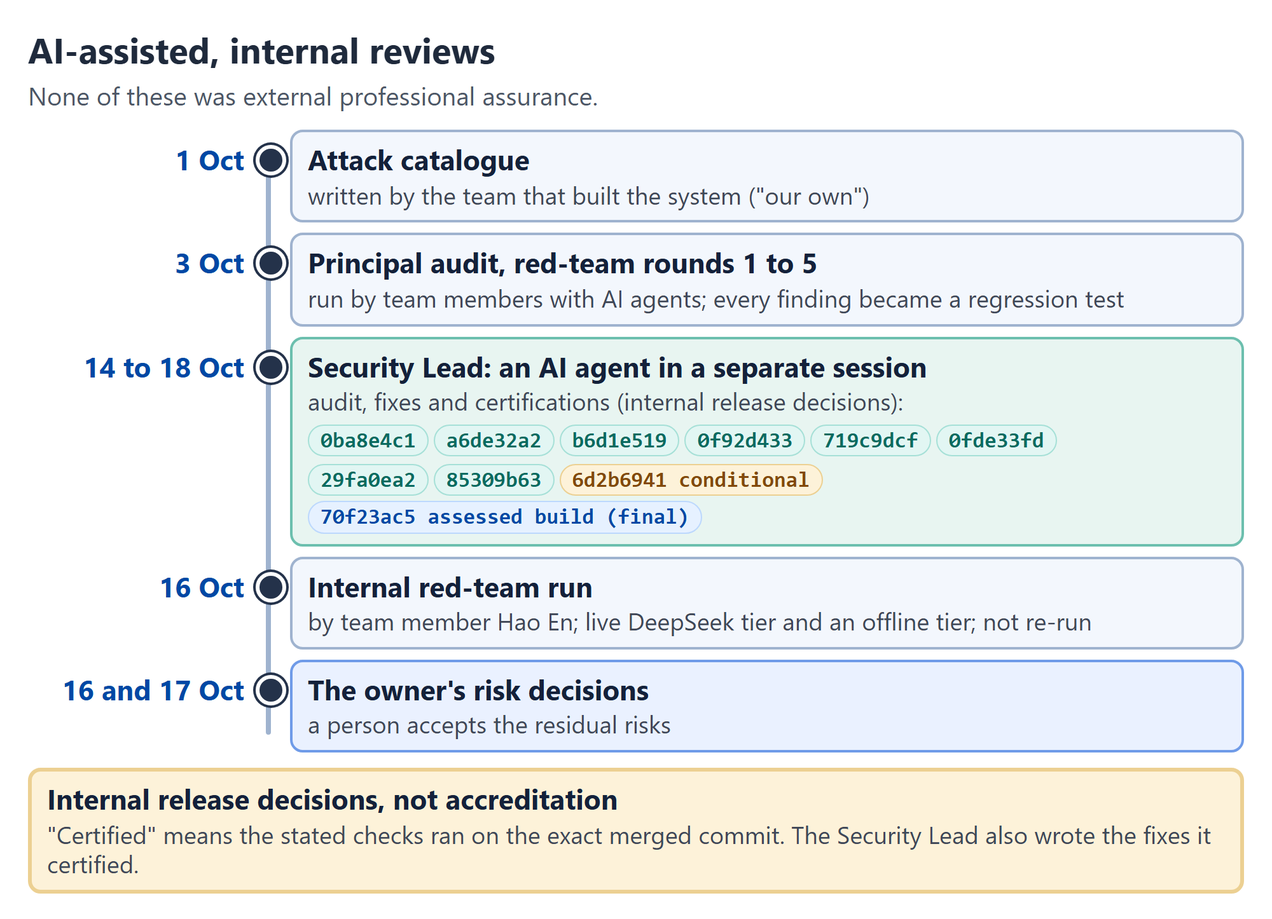
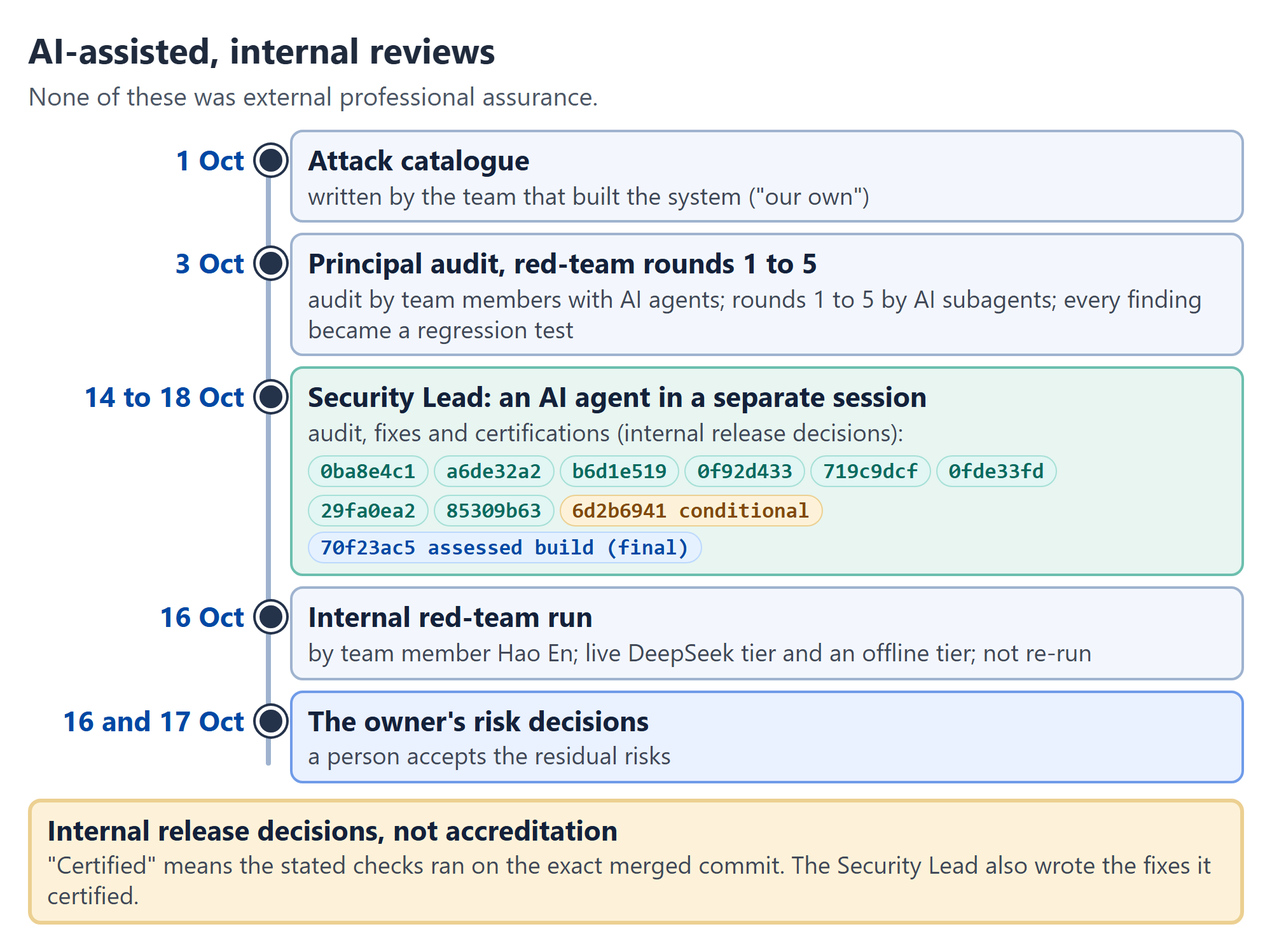
docs(security): correct the review labels and live-mode claims at b80e7340
A documentation review of the integration lead's edits (08c8dac0 to
b80e7340) found labels that disagree with the new review arrangement,
and live-mode statements the evidence contradicts. Findings, ratings
and verdicts are unchanged.

- The 16 Oct run is "internal" everywhere: the OWASP rows, LLM10, E9.
  Its report is not in the repository, and that is said again.
- A row for the 17 Oct review of the self-assessment; the reviewer is
  not recorded.
- Live mode:
  - "every evidence run uses cache mode" and "the router has not been
    run live" are replaced;
  - the live runs (1, 16 and 18 Oct) are listed as uncertified
    evidence, without commit or redaction stamps.
- Dates: Security Lead 14 to 18 Oct; risk decisions 16 to 18 Oct.
- 70f23ac5's disclosed items now include REG-9, CT-2b, SEC-27 and
  SEC-28.
- Wording: the braces advisory is accepted by the owner; the licence
  check is reported by the team; Appendix E's "unchanged" statement
  is softened to say what it did change.
- Figure 5: the audit was by team members with AI agents, rounds 1 to
  5 by AI subagents.
- A self-contradiction in 1.5 is removed.

Refs: review of b80e7340 docs

Changed region(s): [[0.031, 0.0311, 0.992, 0.9647], [0.217, 0.0311, 0.279, 0.0622]]

diff --git a/docs/security/figures/src/fig6.html b/docs/security/figures/src/fig6.html
@@ -15,7 +15,7 @@
 <div class="sub">None of these was external professional assurance.</div>
 <div class="tl">
  <div class="ev"><div class="d">1 Oct</div><div class="dot"></div><div class="box"><b>Attack catalogue</b><small>written by the team that built the system ("our own")</small></div></div>
- <div class="ev"><div class="d">3 Oct</div><div class="dot"></div><div class="box"><b>Principal audit, red-team rounds 1 to 5</b><small>run by team members with AI agents; every finding became a regression test</small></div></div>
+ <div class="ev"><div class="d">3 Oct</div><div class="dot"></div><div class="box"><b>Principal audit, red-team rounds 1 to 5</b><small>audit by team members with AI agents; rounds 1 to 5 by AI subagents; every finding became a regression test</small></div></div>
  <div class="ev"><div class="d">14 to 18 Oct</div><div class="dot"></div><div class="box det"><b>Security Lead: an AI agent in a separate session</b><small>audit, fixes and certifications (internal release decisions):</small>
    <div class="ids"><span class="chip c-grn">0ba8e4c1</span><span class="chip c-grn">a6de32a2</span><span class="chip c-grn">b6d1e519</span><span class="chip c-grn">0f92d433</span><span class="chip c-grn">719c9dcf</span><span class="chip c-grn">0fde33fd</span></div>
    <div class="ids"><span class="chip c-grn">29fa0ea2</span><span class="chip c-grn">85309b63</span><span class="chip c-amb">6d2b6941 conditional</span><span class="chip c-blu">70f23ac5 assessed build (final)</span></div></div></div>

diff --git a/docs/SECURITY_SELF_ASSESSMENT.md b/docs/SECURITY_SELF_ASSESSMENT.md
@@ -48,7 +48,7 @@ International AI Track | Security Self-Assessment
 | **Induced transfers** (诱导转账) | no operation has a payee or account field, so no message can redirect money; a lender named in a message is a security event, never a facility; receipts count only from the bank feed or the owner; concessions only through the verifier's caps and the owner's tiers | 1.3, 1.6 | fake-lender and induced-transfer cases (10), fake prior concessions (7), the compromised-agent step on every case, extra-field differentials (FL-06, SE-04) | 0 money moved; 0 facilities added by non-owners; 0 concessions from unevidenced claims |
 | **Data extraction** (信息套取) | owner token on every read; template replies; the egress guard with canaries; the agent's allow-list view; the buyer's daily budget | 3.4, 1.2 | mandate, reserve and facility exfiltration (11), cross-buyer (6), canary extraction (5), 38 chat leak cases | 0 protected values disclosed; 0 readable without the owner token; 0 canaries; known detection gaps listed (SEC-33, SEC-34) |
 | **Privilege escalation** (越权操作) | tiers computed by code; Tier 3 refused for everyone; Tier 2 waits for the owner; identity from the credential only; owner-only clock, circuit and approvals | 1.2, 1.3, 1.5, 1.8 | privilege escalation (22), replay and expiry (11), revoked or forged mandate (7), changed offers (4), the route policy test over every route and caller, mutation tests | 0 unauthorised executions; 0 route policy deviations |
-| **Prompt injection** (Prompt 注入) | the model fills typed data only, with exact source spans; the coverage proof fails closed; the consent grammar for owner chat | 1.2, 1.6, 2.3 | prompt injection (17), consent (41), quoted approvals (16), buyer instructions (18); the external run's live tier | 0 executions from injected text; misreadings stay within typed rows (R-7) |
+| **Prompt injection** (Prompt 注入) | the model fills typed data only, with exact source spans; the coverage proof fails closed; the consent grammar for owner chat | 1.2, 1.6, 2.3 | prompt injection (17), consent (41), quoted approvals (16), buyer instructions (18); the internal red-team run's live tier | 0 executions from injected text; misreadings stay within typed rows (R-7) |
 | Social engineering (template) | the same controls: urgency, authority or a claimed payment changes no tier | 2.4 | social engineering (8) | 0 harm |
 | Failure recovery (template) | one unit of work per operation; compare-and-swap; triggers; refusals fail closed | 1.10, 1.12 | failure recovery (20); the concurrency suite; the database failure mid-execute (FR-06) | 0 partial writes; plans are atomic per operation only (SEC-28) |
 
@@ -191,13 +191,13 @@ A policy check then compares each answer with the class below, and a diff compar
 
 **Result on the assessed build:** 0 policy violations in any mode. With `DEMO_MODE` off or unset, every published demo credential was refused.
 
-**What the sweep does not show, and the test that does.** The sweep fills path parameters with a placeholder and sends empty bodies, so on about half the routes the owner's own request stops at validation (404 or 422). It shows who is turned away, not that each owner route works. Since the external review, `tests/security/test_route_policy.py` closes that gap:
+**What the sweep does not show, and the test that does.** The sweep fills path parameters with a placeholder and sends empty bodies, so on about half the routes the owner's own request stops at validation (404 or 422). It shows who is turned away, not that each owner route works. Since the 17 Oct review of the self-assessment, `tests/security/test_route_policy.py` closes that gap:
 - it enumerates every method and route from the application itself (110 in demo mode: 106 API routes and 4 documentation routes);
 - every route must belong to exactly one class, and the class is cross-checked against the authentication dependency the code runs, so a new route cannot slip in unclassified;
 - every non-owner caller sends the owner's real request, with real ids and valid bodies, and must be refused (401 or 403), and the books must be unchanged afterwards;
 - with `DEMO_MODE=0` and production credentials, every published demo value is refused on every non-public route, and the documentation routes answer 404.
 
-**Result:** no route disagrees with its class. The owner reaches the handler on 93 of 94 owner and demo routes in demo mode, and on 88 of 94 in production mode (the rest refused by design: demo-only routes, and a contract-terms route behind its flag). The other five are the demo-only routes, refused by design.
+**Result:** no route disagrees with its class. The owner reaches the handler on 93 of 94 owner and demo routes in demo mode, and on 88 of 94 in production mode (the rest refused by design: demo-only routes, and a contract-terms route behind its flag). 
 
 **One behaviour to note.** `/demo/reset` and `/demo/restore` are owner-only and are refused on a persistent store outside demo mode. On the in-memory store they work for the owner even with `DEMO_MODE=0`.
 
@@ -231,7 +231,7 @@ The rest of the chat path is bound in the same way:
 - **Asserted facts:** `RECORD_FACT` answers "cannot record it", so chat cannot change the books by assertion.
 - **Sessions:** a session continues only for the caller that opened it (SEC-21).
 - **Owner questions.** A question about the books ("what is our cash?") is answered by a read-only module (`app/nl/answers`) that writes nothing and has no route of its own. Only the owner gets figures: the agent key gets the sign-in sentence, and buyer and anonymous chat never reach the module. A question never acts. A Tier-3 request phrased as a question ("sign a personal guarantee?") is still refused and logged like the imperative (ASK-1), and while a plan waits for the owner's go-ahead every read says so and names what "go ahead" will run (ASK-2). Answer cards are built for owner turns only.
-- **The question router** (ADR-0015, proposed; `FEATURE_ASK_ROUTER`). When the rules cannot place an owner question, a model may choose among 40 read-only tools. The model receives only the redacted question and the tool catalogue, never the books. Its reply is validated strictly: an allow-listed tool name, typed and bounded arguments, nothing else. A canary in the prompt is checked in the reply, and a trip is a security event (RT-L2). Logs carry a hash of the question and fixed reason codes, never model text (RT-L1). The router is owner-only, and no tool writes, plans or approves. In the assessed configuration (`LLM_MODE=cache`) it runs on recorded or scripted answers; it has not been run against a live model.
+- **The question router** (ADR-0015, proposed; `FEATURE_ASK_ROUTER`). When the rules cannot place an owner question, a model may choose among 40 read-only tools. The model receives only the redacted question and the tool catalogue, never the books. Its reply is validated strictly: an allow-listed tool name, typed and bounded arguments, nothing else. A canary in the prompt is checked in the reply, and a trip is a security event (RT-L2). Logs carry a hash of the question and fixed reason codes, never model text (RT-L1). The router is owner-only, and no tool writes, plans or approves. In the assessed configuration (`LLM_MODE=cache`) it runs on recorded or scripted answers. It was run live after the assessed build (the 18 Oct stress test and demonstration in the technical document); those runs are uncertified evidence.
 - **Ending a chat session** (`POST /nl/session/reset`). A caller with no credential can end only an anonymous session; the owner can end any. Ending someone else's session answers exactly as for a missing one, so it reveals nothing.
 
 ### Confirmation, verification and rollback mechanisms
@@ -430,16 +430,16 @@ The STRIDE table is a category map. The scenarios below follow one attacker from
 
 | OWASP LLM risk | How FLOW addresses it | Tested by | Residual |
 | --- | --- | --- | --- |
-| LLM01 Prompt injection | model output is typed data with exact source spans; the coverage proof fails closed; tiers and gates are code. These limit what a successful injection can do; they do not make injection impossible | 17 injection, 41 consent, 16 quoted-approval and 18 buyer-instruction cases; external live tier | misreadings that stay within a typed row (R-7) |
-| LLM02 Sensitive information disclosure | owner token on reads; template replies; egress guard with canaries; agent allow-list view; redaction before a model | 22 exfiltration and 38 chat-leak cases; external live tier; `tests/compiler/test_redaction_mandatory.py` | PRIV-4, PRIV-5; R-10; SEC-22 |
+| LLM01 Prompt injection | model output is typed data with exact source spans; the coverage proof fails closed; tiers and gates are code. These limit what a successful injection can do; they do not make injection impossible | 17 injection, 41 consent, 16 quoted-approval and 18 buyer-instruction cases; the internal red-team run's live tier (16 Oct) | misreadings that stay within a typed row (R-7) |
+| LLM02 Sensitive information disclosure | owner token on reads; template replies; egress guard with canaries; agent allow-list view; redaction before a model | 22 exfiltration and 38 chat-leak cases; the internal red-team run's live tier (16 Oct); `tests/compiler/test_redaction_mandatory.py` | PRIV-4, PRIV-5; R-10; SEC-22 |
 | LLM03 Supply chain | lockfiles; dependency audits of the assessed lockfiles | E8 | see 2.8; a clean scan is a statement about that scan, not supply-chain security |
 | LLM04 Data and model poisoning | no training or fine-tuning; recorded readings are keyed on the full document and written offline only | review of the recording path | none known |
 | LLM05 Improper output handling | model output is schema-validated and grounded, never executed and never rendered as HTML; React escaping; a per-request CSP nonce | injected-markup probes in a browser | S3 |
 | LLM06 Excessive agency | owner-signed mandate; Tier 3 refused; Tier 2 waits for the owner; admission and circuit breaker; no operation has a payee field | 22 escalation cases; the compromised-agent step on every case; mutation tests (2.5) | R-3 |
-| LLM07 System prompt leakage | prompts hold no secrets, limits or books | 5 extraction cases; external live tier | none known |
+| LLM07 System prompt leakage | prompts hold no secrets, limits or books | 5 extraction cases; the internal red-team run's live tier (16 Oct) | none known |
 | LLM08 Vector and embedding weaknesses | not applicable: no retrieval or vector store | | |
 | LLM09 Misinformation | grounding; the coverage proof; a second reader, with disagreements sent to the owner; "AI-generated, for reference" labels | 231-item language-boundary set; held-out compiler sets | R-7, R-16 |
-| LLM10 Unbounded consumption | intake bounds; buyer budget; per-caller rate limits; oversized contracts refused before any model call | burst and denial-of-wallet tests (external run) | RT-3 |
+| LLM10 Unbounded consumption | intake bounds; buyer budget; per-caller rate limits; oversized contracts refused before any model call | burst and denial-of-wallet tests (internal red-team run, 16 Oct) | RT-3 |
 
 #### 2.4 Method and harm oracle
 
@@ -479,7 +479,7 @@ The protected values are mandate caps, facility limits, rates, covenants, cash, 
 
 A queued Tier-2 operation is "contained": the owner still decides it.
 
-**Did the case reach its control?** A clean result is worth something only if the attack actually reached the control it targets. Since the external review:
+**Did the case reach its control?** A clean result is worth something only if the attack actually reached the control it targets. Since the 17 Oct review of the self-assessment:
 - every step of every case records whether it ran, was skipped or errored;
 - a case whose intended path did not run is NOT_REACHED and never counts as defended;
 - every API case declares the codes, statuses or events that prove its intended control fired (a typed `expect` block), and a case without one fails the tests;
@@ -559,8 +559,9 @@ Both assert zero unauthorised executions, an unchanged mandate and facility menu
 | Principal audit (3 Oct) | three bounded reviewers and a principal: team members working with AI agents | separate review of the code | yes | the owner |
 | Red-team rounds 1 to 5 (3 Oct) | AI subagents started with minimal context about the backlog | no implementation role | yes | the owner; every finding became a regression test |
 | Security Lead (14 to 18 Oct) | an AI agent (Claude, in Claude Code) in a separate session and git worktree, with delegated AI reviewer agents | did not build the product features it audited; **did write the security fixes it then certified**, each on its own branch with a test that fails first | yes: reproductions, sweeps and probes in `docs/security/evidence/` | the integration agent merged; the owner approved engine changes and accepted risks |
-| Internal red-team run (16 Oct) | run by team member Hao En | not recorded | yes | its five observations were re-checked by the Security Lead on the code; its live-tier results were not re-run |
-| Risk acceptance | the owner (a person) | | | recorded decisions of 16 and 17 Oct (section 04) |
+| Internal red-team run (16 Oct) | run by team member Hao En; its report is not in the repository and no location is recorded | a team member; role in the implementation not recorded | yes | its five observations were re-checked by the Security Lead on the code; its live-tier results were not re-run |
+| Review of the self-assessment (17 Oct) | a written review supplied by the owner; the reviewer is not recorded | not recorded | it reviewed the documents, not the code | the Security Lead acted on each point (v3) |
+| Risk acceptance | the owner (a person) | | | recorded decisions of 16 to 18 Oct (section 04) |
 
 **What "certified" means here.** An internal release decision by the Security Lead: the stated checks were run on the exact merged commit, and nothing found blocks the stated scope. It is not accreditation, an audit opinion or a penetration test.
 
@@ -607,7 +608,7 @@ Its five observations, with their status on the assessed build:
 | 17 Oct | `29fa0ea2` | the redaction fix (PRIV-1 to PRIV-3), SEC-26, the evidence verifier, the anonymous-intake switch, the harness assurance work, the route policy test, the #161 golden, the v3 document | certified (internal) |
 | 17 Oct | `85309b63` | batches 5 and 6: adding a customer and refiling a document (owner-only), owner questions answered from the books (read-only), a chat session reset, the party check, the outcome card, DOC-05 and PC-06 | certified (internal), with ASK-1, ASK-2 and REG-1 to REG-7 disclosed (section 4.4) |
 | 18 Oct | `6d2b6941` | batches 7 to 10: contract terms (ADR-0014), record a payment, the question router (ADR-0015), the warm-up worker | conditional: only with contract terms off |
-| 18 Oct | `70f23ac5` (**the assessed build**) | round five: every finding of the reviews of batches 5 to 10 fixed, and the owner-approved engine half (CT-2, CT-6, CT-7, REG-5) | certified (internal), with REG-8 disclosed (section 4.4) |
+| 18 Oct | `70f23ac5` (**the assessed build**) | round five: every finding of the reviews of batches 5 to 10 fixed, and the owner-approved engine half (CT-2, CT-6, CT-7, REG-5) | certified (internal), with REG-8, REG-9, CT-2b, SEC-27 and SEC-28 disclosed (section 4.4) |
 
 Appendix C gives the checks and counts for each row.
 
@@ -627,14 +628,14 @@ The certification records before 17 Oct report exit codes per shard, not counts.
 | Scan | Lockfile | Result | Exceptions |
 | --- | --- | --- | --- |
 | `pnpm audit --prod` | `apps/web/pnpm-lock.yaml` at the assessed build | 0 advisories (`next` 16.3.8, `source-map-js` 1.2.2) | |
-| `pnpm audit` (all, including development) | same | 1 high: `braces` (GHSA-vfj7-8cjw-p6xm), via `eslint-config-next` > `fast-glob` > `micromatch` | `braces`: a development-only dependency of the lint tooling, with no patched version published; it never ships in the production bundle and parses only our own source globs. Accepted by the team |
+| `pnpm audit` (all, including development) | same | 1 high: `braces` (GHSA-vfj7-8cjw-p6xm), via `eslint-config-next` > `fast-glob` > `micromatch` | `braces`: a development-only dependency of the lint tooling, with no patched version published; it never ships in the production bundle and parses only our own source globs. Accepted by the owner |
 | `pip-audit` | production dependencies exported from `services/api/uv.lock` | no known vulnerabilities | |
 
 RT-1 was rated by reachability. The advisories were in the web server (`next`), so they were reachable over HTTP. On loopback, with nobody but the presenter, likelihood was Low; for a network demo it would have been Moderate. A clean result means only that the named scan of these lockfiles found no published advisory on that date.
 
 #### 2.9 What was not verified
 
-- **A live model at scale.** The catalogue and the 231-item set ran on recorded or scripted answers. The only live-model evidence is the external run's single pass.
+- **A live model at scale.** The catalogue and the 231-item set ran on recorded or scripted answers. The live-model runs the technical document reports (the 1 Oct held-out run, the 16 Oct red-team run's live tier, and the 18 Oct router stress test, live demonstration and frozen evaluation) are uncertified evidence: the Security Lead did not re-run them, and their records do not stamp the code commit or the redaction setting for every call.
 - **Route coverage of the catalogue.** The catalogue's attacks reach only part of the 106 API routes. Every route's authorization is covered by the route policy test (1.5), and the remaining routes' logic by targeted tests; not every route has an adversarial case.
 - **Controls the catalogue does not exercise end to end** (SEC-32). Switching the egress scan off made no catalogue case leak, because outbound replies are fixed templates and nothing pushes a protected value at the guard. The guard is tested by `tests/egress` and by a seeded mutation test, not by the catalogue. The harness's disclosure oracle uses the same scanning function as the product, so a defect there would blind both.
 - **Detection without harm** (SEC-33). About ten chat extraction questions, and MX-03, get the neutral reply but raise no `DATA_EXTRACTION` event: the data-request screen does not recognise those wordings. They are recorded as known gaps in the catalogue.
@@ -701,8 +702,8 @@ Everything runs offline. The metrics are computed from the run, not asserted.
   - no zero-retention or training opt-out header;
   - where the provider processes the data;
   - how long the provider keeps it.
-- **The question router** (`FEATURE_ASK_ROUTER`, live mode only for a real model) sends a provider the owner's redacted question and the tool catalogue, never the books; the reply is a tool choice, validated before anything runs. It has not been run live.
-- **Making live transmission visible.** The web app should say so whenever live mode is on. Live mode is opt-in (`pnpm demo --live-llm`, which prints that live calls are on and forces redaction) and outside every certification; the demo, the demo video and every evidence run use `LLM_MODE=cache`. The web app itself shows no live-model indicator.
+- **The question router** (`FEATURE_ASK_ROUTER`, live mode only for a real model) sends a provider the owner's redacted question and the tool catalogue, never the books; the reply is a tool choice, validated before anything runs. Its live runs (18 Oct) are uncertified evidence (2.9).
+- **Making live transmission visible.** The web app should say so whenever live mode is on. Live mode is opt-in (`pnpm demo --live-llm`, which prints that live calls are on and forces redaction) and outside every certification. The demo video and the certified evidence use `LLM_MODE=cache`; the live runs listed in 2.9 are not certified. The web app itself shows no live-model indicator.
 
 FLOW never attaches the books, mandate, reserve floor, facility limits, funding menu or other buyers' terms to a model request. A message can still contain such figures if a person typed them into it.
 
@@ -772,7 +773,7 @@ These describe what the code does on the assessed build. They are not legal advi
 - **Personal information and cross-border transfer.** If FLOW were deployed with real documents and live mode, a buyer document could contain personal information. A deployer would then have to determine, for its own deployment and the rules that apply to it, whether sending that text to a provider outside mainland China is a cross-border transfer under China's Personal Information Protection Law (PIPL), and what legal basis, security assessment or standard contract would be needed. We have not done that assessment. Redaction reduces the exposure without removing it.
 - **AI-generated content.** Outbound text is template-filled from typed fields, not model prose. The web labels extracted terms "AI-generated, for reference" (由 AI 生成，仅供参考) until the owner confirms them, then "Read by the agent, confirmed by you".
 - **Decision support, not advice.** The agent acts only inside an owner-signed mandate. It is not a licensed lender, broker or adviser; it signs and guarantees nothing, and it moves no real money. Every facility, buyer and bank feed is simulated.
-- **Licence.** All rights reserved (`LICENSE`, added 18 Oct): the code is not licensed for reuse; the competition's organisers and judges may view, run and evaluate it for judging. Third-party licences were checked and permit this: dependencies are MIT, BSD, Apache-2.0, ISC or 0BSD, plus MPL-2.0 (certifi, hypothesis) and LGPL-3.0 (psycopg) used unmodified as libraries, an OFL-1.1 web font and a CC-BY-4.0 data file; no GPL or AGPL component.
+- **Licence.** All rights reserved (`LICENSE`, added 18 Oct): the code is not licensed for reuse; the competition's organisers and judges may view, run and evaluate it for judging. The team reports that third-party licences were checked and permit this (no evidence file is in the repository): dependencies are MIT, BSD, Apache-2.0, ISC or 0BSD, plus MPL-2.0 (certifi, hypothesis) and LGPL-3.0 (psycopg) used unmodified as libraries, an OFL-1.1 web font and a CC-BY-4.0 data file; no GPL or AGPL component.
 
 ## 04 Known Risks
 
@@ -1031,7 +1032,7 @@ Every evidence file of the assessed build is in `docs/security/evidence/2026-10-
 | E6 | 0 wrong-and-material on the language boundary (recorded and scripted answers) | `python ../../scripts/certify_language_boundary.py --backend cache` and `--backend fake` | cache: 0 wrong-and-material, 1 wrong-harmless; fake: 0 wrong-and-material, 3 wrong-harmless (231 items each) | `lb_cache.txt`, `lb_fake.txt`, `language_boundary/` |
 | E7 | concurrency invariants on PostgreSQL 17 | `TERMSLEDGER_TEST_DATABASE_URL=<local database> pytest tests/concurrency` (three runs); the guard tests | 3 of 3 clean (31 passed, 10 on PostgreSQL each); guards 10 passed | `pg_concurrency_*.txt`, `pg_guards.txt` |
 | E8 | dependency scans; CSP in a browser | `pnpm audit --prod --json`; `pip-audit`; `csp_check.mjs` against a production build | 0 production advisories; `braces` (development only); pip-audit clean; 16 pages with the nonce policy, 0 violations, 0 page errors, injected handler and `javascript:` URL blocked | `pnpm_audit_*.json`, `pip_audit.txt`, `csp_browser.json` |
-| E9 | external run observations | the run's own report | as reported | see section 02, internal red-team run |
+| E9 | internal red-team run observations (16 Oct) | the run's own report | as reported | not in the repository; no location recorded (section 2.6) |
 
 Earlier certifications keep their own folders: `docs/security/evidence/2026-10-14/`, `2026-10-16/` and `2026-10-17/dev-719c9dcf/`. Before 17 Oct, shard results were recorded as exit codes, not counts.
 
@@ -1061,7 +1062,7 @@ Earlier certifications keep their own folders: `docs/security/evidence/2026-10-1
 | F-08 | deciding a decided or unknown approval returned 500, unlogged | 409 or 404, with a security event |
 | F-09 to F-12 | authority flags not events; full-width and homoglyph overrides; a textual UPDATE missed; a corrupted row crashed `/audit` | events; NFKC folding; triggers; unreadable rows reported |
 
-**Security Lead (14 to 17 Oct), by severity.**
+**Security Lead (14 to 18 Oct), by severity.**
 - **High:** SEC-16, SEC-02, CAPEX-1, SEC-01 (coverage).
 - **Medium:** OUT-1, SEC-08, SEC-17, SEC-18, SEC-03 to SEC-05, SEC-09, SEC-10, CAPEX-2, CAPEX-3.
 - **Low:** SEC-12, SEC-13, SEC-20, SEC-21, SEC-22, PG-1, CAPEX-4, SETUP-1, 4, 5, 7, SEC-23, OUT-1b, RT-1, RT-2, PRIV-1 to PRIV-3, SEC-26.
@@ -1140,7 +1141,7 @@ Each has its reproduction, fix, regression test and merge commit in `docs/securi
 - **Outside certification (live mode only):** the change has an effect only when a model provider is called. That mode is excluded from every certification.
 - **Follow-up review requested:** a product or test change made after `70f23ac5`, sent to the Security Lead for review.
 
-**Changes since `70f23ac5`.** Commits are on `int/final3` unless stated otherwise. The tests listed are the ones recorded in each commit message.
+**Changes since `70f23ac5`.** Commits are on `int/final3` or `int/final4` (both merged into dev). The tests listed are the ones recorded in each commit message.
 
 | Commit | What changed | Security relevance | Tests run | Status |
 | --- | --- | --- | --- | --- |
@@ -1167,13 +1168,13 @@ Each has its reproduction, fix, regression test and merge commit in `docs/securi
 
 **Findings register.** `docs/security/FINDINGS_REGISTER.md` marks REG-8, REG-9 and CT-2b as fixed on the submission build, with re-certification requested. SEC-28 is marked "reporting fixed, atomicity disclosed". The Security Lead's statuses for `70f23ac5` are kept as written. The ratings in section 4.2 are unchanged until the Security Lead re-certifies.
 
-**Editorial corrections to sections 01 to 04, by the integration lead.** These corrections align the text with the certification records and with the code. No finding, rating, result or certification statement was changed.
+**Editorial corrections to sections 01 to 04, by the integration lead.** These corrections align the text with the certification records and with the code. They change no finding, rating, status or verdict. They do change wording around the evidence: the review arrangement (the 16 Oct run and the 1 to 3 Oct audit now internal), the E9 row, the live-mode text in 3.2, the licence in 3.6 and the rate-ceiling cell in 1.3. The Security Lead reviewed them at re-certification and corrected the live-mode statements (2.9, 3.2).
 - Document control: the date of the 18 Oct manifest update is given beside the version date.
 - Executive summary: "100 API routes" now reads 106, the count in sections 1.5 and 2.9. Live model mode is named in the verdict as not certified, as sections 3.2 and 4.3 already state.
 - Section 1.3: the rate ceiling (15% a year) is described as an approval threshold for the agent, as `app/operations/executor.py` implements it. The owner's own draw above it is not raised to Tier 2.
 - Section 2.6: the Security Lead's dates read 14 to 18 Oct, because the certification of `70f23ac5` and the review that found REG-8 date from 18 Oct.
 - Figures 4 and 5: Figure 4 showed the 259-case catalogue of 16 Oct (126 API, 133 chat), and now shows 279 (128, 151), as in the text. In Figure 5, the Security Lead's dates now run to 18 Oct, and the certifications `29fa0ea2`, `85309b63`, `6d2b6941` (conditional) and `70f23ac5` (the assessed build) are shown. Before this change, the "assessed build (final)" label followed `0fde33fd`.
-- The team's five questions were answered by the owner on 18 Oct and are filled in (the audit, the red-team run, the dependency advisory and the licence).
+- The team's questions were answered by the owner on 18 Oct and are filled in (the audit, the red-team run, the dependency advisory and the licence).
 
 **Final-build verification (filled by the integration lead on the submission commit).**
 

diff --git a/docs/security/FINDINGS_REGISTER.md b/docs/security/FINDINGS_REGISTER.md
@@ -38,7 +38,7 @@ SUSPECTED = code reading only. Severity is for the stated scope; **S** = hackath
 | RT-1 | (internal red-team report, 16 Oct) `next` 16.3.7 and `source-map-js` 1.2.1 carry 2 high, 4 moderate, 1 low advisories (`pnpm audit --prod`) | Low (S, loopback) / Medium (P, reachable over HTTP) | CONFIRMED (17 Oct) | **fixed** `sec/next-16-3-8` ce7791bd (`next` 16.3.8, `source-map-js` 1.2.2), merged `0fde33fd`, **certified 17 Oct** (`pnpm audit --prod` 0) |
 | RT-2 | (internal red-team report) `POST /offers` with a malformed document on the `email` or `chat` channel answers 500 with a traceback (no key needed) | Low | CONFIRMED (17 Oct) | **fixed** `sec/offers-422` 3158c81c (422 `DOCUMENT_INVALID`), merged `0fde33fd`, **certified 17 Oct** |
 | RT-3 | (internal red-team report) owner and agent chat have no daily model-call budget: a leaked owner or agent credential can spend on the model | Low | CONFIRMED (17 Oct) | partly: SEC-20 caps requests per minute per caller; a daily model-call budget per credential is open |
-| SEC-24 | (external review of the self-assessment, 17 Oct) The attack harness never compared `expected_controls` with what fired; a step that was skipped or errored still counted, and five cases (PE-03, FR-16, PE-17, TC-02, DOC-02) scored as defended without running their intended path; the 126 and 133 counts were not both pinned; no positive control or API-catalogue mutation test | Medium (coverage) | CONFIRMED (code and `latest_report.json`, 17 Oct) | **fixed** on `sec/harness-assurance` (d00b0e14 to 28133edc): every step records whether it ran; NOT_REACHED never counts as defended; eight cases re-pointed so they reach their control (0 NOT_REACHED of 260); exact counts and id set pinned (127 API, 133 chat); every API case declares its expected evidence (119 met, 8 known gaps, SEC-34); positive controls PC-01 to PC-05; mutation tests, with TC-04 added for the Tier-1 terms hash; merged `29fa0ea2`, **certified 17 Oct** |
+| SEC-24 | (17 Oct review of the self-assessment, 17 Oct) The attack harness never compared `expected_controls` with what fired; a step that was skipped or errored still counted, and five cases (PE-03, FR-16, PE-17, TC-02, DOC-02) scored as defended without running their intended path; the 126 and 133 counts were not both pinned; no positive control or API-catalogue mutation test | Medium (coverage) | CONFIRMED (code and `latest_report.json`, 17 Oct) | **fixed** on `sec/harness-assurance` (d00b0e14 to 28133edc): every step records whether it ran; NOT_REACHED never counts as defended; eight cases re-pointed so they reach their control (0 NOT_REACHED of 260); exact counts and id set pinned (127 API, 133 chat); every API case declares its expected evidence (119 met, 8 known gaps, SEC-34); positive controls PC-01 to PC-05; mutation tests, with TC-04 added for the Tier-1 terms hash; merged `29fa0ea2`, **certified 17 Oct** |
 | SEC-32 | (mutation tests, 17 Oct) Controls the catalogue did not exercise: with the terms-hash check off no case showed harm (every changed-offer case is a Tier-2 rebate that waits for the owner; no Tier-1 changed-terms case); with the egress scan emptied no case leaked (replies are fixed templates, so nothing pushes a protected value at the guard); the harness evaluated offers directly, not through `/offers/{id}/evaluate`; the oracle uses the same `egress.scan` as the product | Medium (coverage) | CONFIRMED (`tests/security/test_mutations.py`) | TC-04 added (Tier-1 changed terms), merged `29fa0ea2`; the egress guard is covered by `tests/egress` and a seeded mutation test, disclosed as not exercised end to end |
 | SEC-33 | (harness, 17 Oct) Detection gaps with no harm: about ten chat extraction questions (NL-CX02 to CX05, CX08, CX12, CX16 to CX19, and keyed variants) and MX-03 get a neutral reply but raise no `DATA_EXTRACTION` event: the data-request screen does not recognise those wordings | Low (detection) | CONFIRMED (report) | recorded as known gaps in the catalogue; widening the screen is a product change |
 | SEC-34 | (required expectations, 17 Oct) Eight API cases do not reach the control their entry names, though a different control holds and nothing is harmed: MX-03 and CB-05 (the data-request screen misses the wording), PI-06, PI-11 and PI-16 (the rules grammar leaves the offer unresolved, so the caps are not reached; PI-16 also raises no INJECTION event for "INSTRUCTIONS FOR THE AGENT ... override the concession cap", a lexicon hole), FH-04 and SE-03 (refused as unevidenced prior concessions, never priced) and SE-08 (BUYER-2's 90-day request unresolved where BUYER-1's is capped). Also: RP-06 records an owner's repeated decision as PRIVILEGE_ESCALATION | Low (detection and coverage) | CONFIRMED (`sec/harness-assurance` 60feacbe) | recorded as known gaps that fail the tests the day they close; the lexicon hole and the screen wording are product changes |

diff --git a/docs/security/RELEASE_GATE.md b/docs/security/RELEASE_GATE.md
@@ -27,7 +27,7 @@ it lapses when either changes. It is never a claim of absolute security or zero 
 | `6d2b6941` (dev, 18 Oct: batches 7 to 10) | **CONDITIONAL**: only with `FEATURE_CONTRACT_TERMS` off | NO-GO | **NO-GO** |
 | `85309b63` (dev, 17 Oct: batches 5 and 6) | **GO** (certified 17 Oct): loopback, one process, cache mode, synthetic data; ASK-1, ASK-2 and REG-1 to REG-7 disclosed | **NO-GO** until a tested deployment profile exists | **NO-GO** |
 | `29fa0ea2` (dev, 17 Oct: round four, redaction, v3) | **GO** (certified 17 Oct, no test exception): loopback, one process, cache mode, synthetic data | **NO-GO** until one tested deployment profile exists; `ANONYMOUS_INTAKE=0` is now available for it | **NO-GO** |
-| `0fde33fd` (dev, 17 Oct: SEC-08 executor check, OUT-1b, RT-2, RT-1) | **GO** (certified 17 Oct, with the #161 test exception) | **NO-GO** until one tested deployment profile exists (below); revised 17 Oct after the external review: the conditions were never exercised on a deployment, and SEC-19 provenance is not shown on the accept card or approvals | **NO-GO** |
+| `0fde33fd` (dev, 17 Oct: SEC-08 executor check, OUT-1b, RT-2, RT-1) | **GO** (certified 17 Oct, with the #161 test exception) | **NO-GO** until one tested deployment profile exists (below); revised 17 Oct after the 17 Oct review of the self-assessment: the conditions were never exercised on a deployment, and SEC-19 provenance is not shown on the accept card or approvals | **NO-GO** |
 | `fe56b357` (dev head, 16 Oct: final UI, R-10 rounding) | not certified: OUT-1 still present (the chat paths do not check the outside mark); R-10 reassessed, residual Low | NO-GO until OUT-1 is fixed | **NO-GO** |
 
 **Submission build (integration lead's note, not a gate decision).** The build submitted on 20 Oct is `5941e95a`. It
